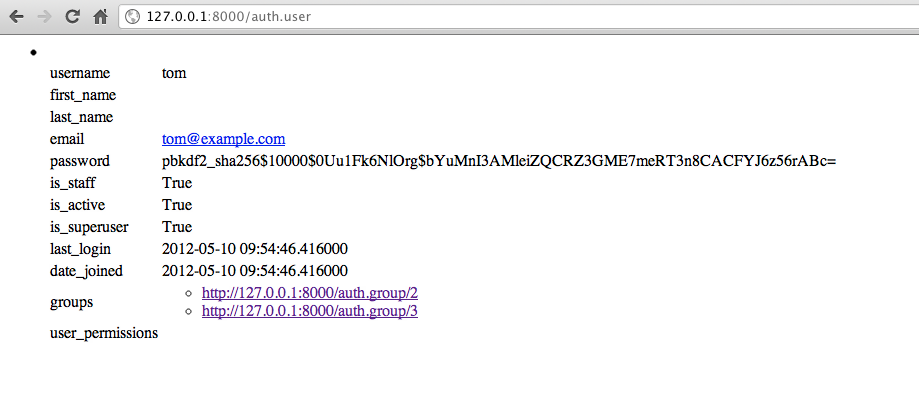
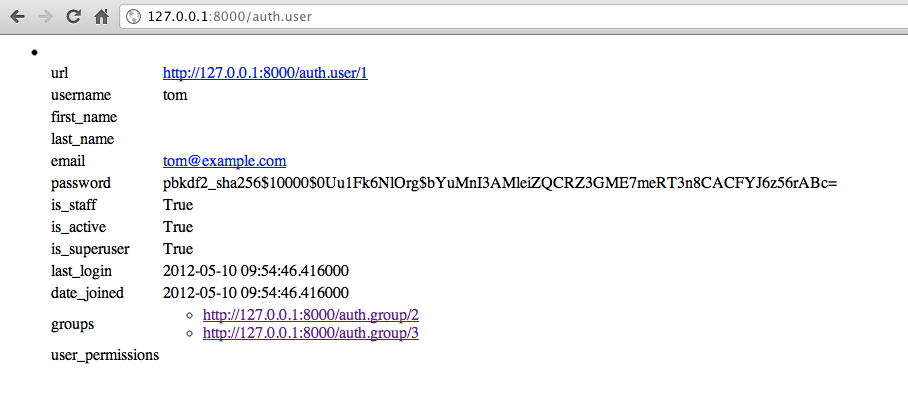
Include a 'url' field on model instances

diff --git a/autoapi/views.py b/autoapi/views.py
@@ -1,7 +1,7 @@
 from django.db.models import get_model, get_models
 from django.http import HttpResponse
 from django.core.urlresolvers import reverse as _reverse
-from serializers import Serializer, ModelSerializer, RelatedField
+from serializers import Serializer, ModelSerializer, Field, RelatedField
 
 
 mime_types = {
@@ -13,24 +13,6 @@ mime_types = {
 }
 
 
-class URLRelatedField(RelatedField):
-    def convert(self, obj):
-        app_name = obj._meta.app_label
-        model_name = obj._meta.object_name.lower()
-        kwargs = {'app_name': app_name, 'model': model_name, 'pk': obj.pk}
-        request = self.root.kwargs['request']
-        format = self.root.kwargs['format']
-        return reverse('autoapi:instance', kwargs=kwargs,
-                       request=request, format=format)
-
-
-class APISerializer(ModelSerializer):
-    class Meta:
-        model_field_types = ('fields', 'many_to_many')
-        depth = 0
-        related_field = URLRelatedField
-
-
 def reverse(viewname, kwargs=None, request=None, format=None):
     """
     Like the regular 'reverse' function, but returns fully qualified urls,
@@ -40,6 +22,19 @@ def reverse(viewname, kwargs=None, request=None, format=None):
         kwargs['format'] = format
     url = _reverse(viewname, kwargs=kwargs)
     return request.build_absolute_uri(url)
+
+
+def url_for_object(obj, request, format):
+    """
+    Return the canonical URL for a given model instance.
+    Use the request to form an absolute URL, rather than a relative one,
+    and use a format suffix (eg '.json') if one is provided.
+    """
+    app_name = obj._meta.app_label
+    model_name = obj._meta.object_name.lower()
+    kwargs = {'app_name': app_name, 'model': model_name, 'pk': obj.pk}
+    return reverse('autoapi:instance', kwargs=kwargs,
+                   request=request, format=format)
 
 
 def get_api_root(request, format):
@@ -55,6 +50,30 @@ def get_api_root(request, format):
                       request=request, format=format)
         ret[app_name + '.' + model_name] = url
     return ret
+
+
+class URLField(Field):
+    def convert_field(self, obj, field_name):
+        request = self.root.kwargs['request']
+        format = self.root.kwargs['format']
+        return url_for_object(obj, request, format)
+
+
+class URLRelatedField(RelatedField):
+    def convert(self, obj):
+        request = self.root.kwargs['request']
+        format = self.root.kwargs['format']
+        return url_for_object(obj, request, format)
+
+
+class APISerializer(ModelSerializer):
+    url = URLField()
+
+    class Meta:
+        include_default_fields = True
+        model_field_types = ('fields', 'many_to_many')
+        depth = 0
+        related_field = URLRelatedField
 
 
 def root(request, format=None):
